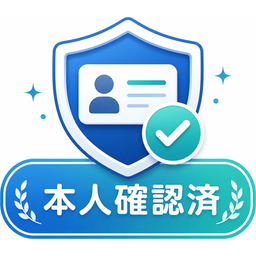
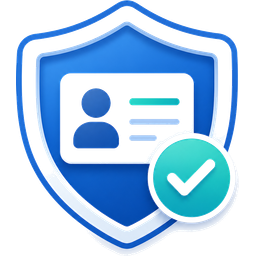
ログイン成功トーストの追加＋本人確認済みバッジ画像の差し替え (#128)
- AuthGate: 未ログイン→ログイン済みに変わった瞬間だけ「ログインしました」
  トーストを2.2秒表示する。ログイン画面から目的の画面へ切り替わるだけだと
  成功したのか分かりにくいという指摘に対応。ページ読込時点で既にログイン
  済みだった場合（セッション復元）は表示しない。
- public/verified-badge.png を運営提供の新しいバッジ画像に差し替え
  （余白トリミング・白背景を透過化して既存の256x256に合わせた）。
  プロフィール画面での表示コード側の変更は不要。

Claude-Session: https://claude.ai/code/session_013kJUZtxPB6ZyjocyEqdMuj

diff --git a/src/components/AuthGate.tsx b/src/components/AuthGate.tsx
@@ -1,12 +1,14 @@
 "use client";
 
-import type { ReactNode } from "react";
+import { useEffect, useRef, useState, type ReactNode } from "react";
+import { colors } from "@/lib/tokens";
 import { useAuth } from "@/lib/auth/useAuth";
 import { useProfile } from "@/lib/queries/profile";
 import { useRouter } from "./AppRouter";
 import { isPublicView } from "@/lib/auth/publicScreens";
 import { LoginScreen } from "./LoginScreen";
 import { SuspendedScreen } from "./SuspendedScreen";
+import { CheckIcon } from "./icons";
 
 /**
  * Auth boundary for the app content. In prototype mode (no Supabase project
@@ -30,6 +32,29 @@ export function AuthGate({ children }: { children: ReactNode }) {
   const { screen, selectedProfileId } = useRouter();
   const profile = useProfile(configured ? user?.id : undefined);
 
+  // ログイン画面から本来の画面へ切り替わるだけだと「ログインできたのか」が
+  // 分かりにくいため、未ログイン→ログイン済みに変わった瞬間だけ短いトーストを
+  // 出す（セッション復元時の初回表示では出さない。ページ読込直後にログイン済み
+  // だった場合と、フォーム送信でいま実際にログインした場合を区別するため）。
+  const initializedRef = useRef(false);
+  const wasSignedInRef = useRef(false);
+  const [showLoggedInToast, setShowLoggedInToast] = useState(false);
+  useEffect(() => {
+    if (!configured || loading) return;
+    if (!initializedRef.current) {
+      initializedRef.current = true;
+      wasSignedInRef.current = Boolean(user);
+      return;
+    }
+    if (!wasSignedInRef.current && user) {
+      setShowLoggedInToast(true);
+      const t = setTimeout(() => setShowLoggedInToast(false), 2200);
+      wasSignedInRef.current = true;
+      return () => clearTimeout(t);
+    }
+    wasSignedInRef.current = Boolean(user);
+  }, [user, loading, configured]);
+
   if (!configured) return <>{children}</>;
   if (loading) return null; // brief flash while the session is resolved
   if (user && profile.data?.is_suspended) {
@@ -37,5 +62,34 @@ export function AuthGate({ children }: { children: ReactNode }) {
   }
   // 未ログインでも公開画面はそのまま見せる。登録が必要な画面だけログインに差し替える。
   if (!user && !isPublicView(screen, selectedProfileId)) return <LoginScreen />;
-  return <>{children}</>;
+  return (
+    <>
+      {children}
+      {showLoggedInToast && (
+        <div
+          role="status"
+          style={{
+            position: "fixed",
+            top: 16,
+            left: "50%",
+            transform: "translateX(-50%)",
+            zIndex: 200,
+            display: "flex",
+            alignItems: "center",
+            gap: 8,
+            background: colors.textPrimary,
+            color: colors.white,
+            fontSize: 12.5,
+            fontWeight: 700,
+            padding: "10px 18px",
+            borderRadius: 999,
+            boxShadow: "0 12px 26px -12px rgba(0,0,0,.5)",
+          }}
+        >
+          <CheckIcon size={16} color={colors.white} />
+          ログインしました
+        </div>
+      )}
+    </>
+  );
 }